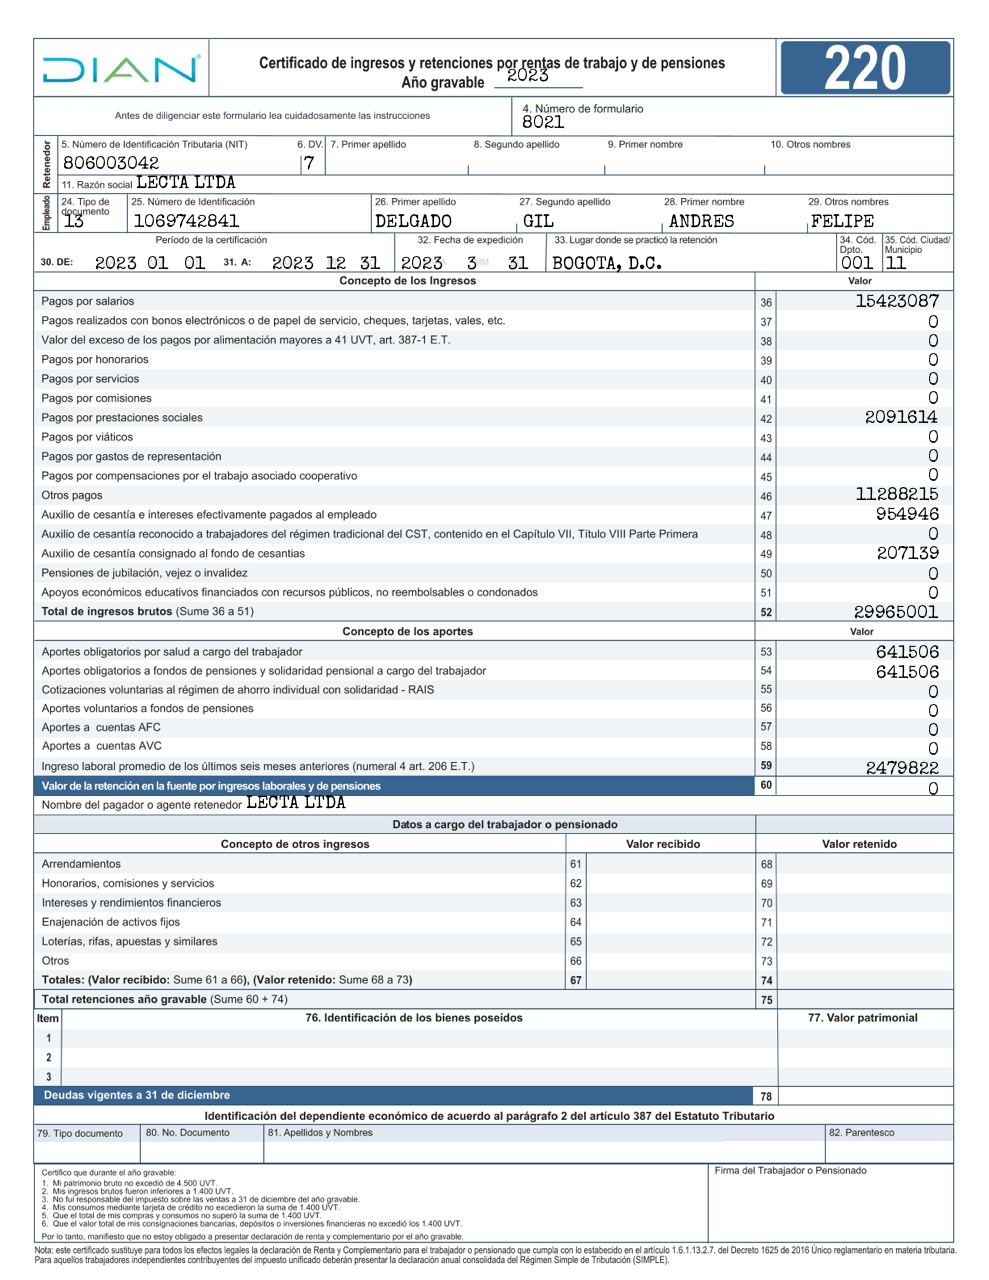
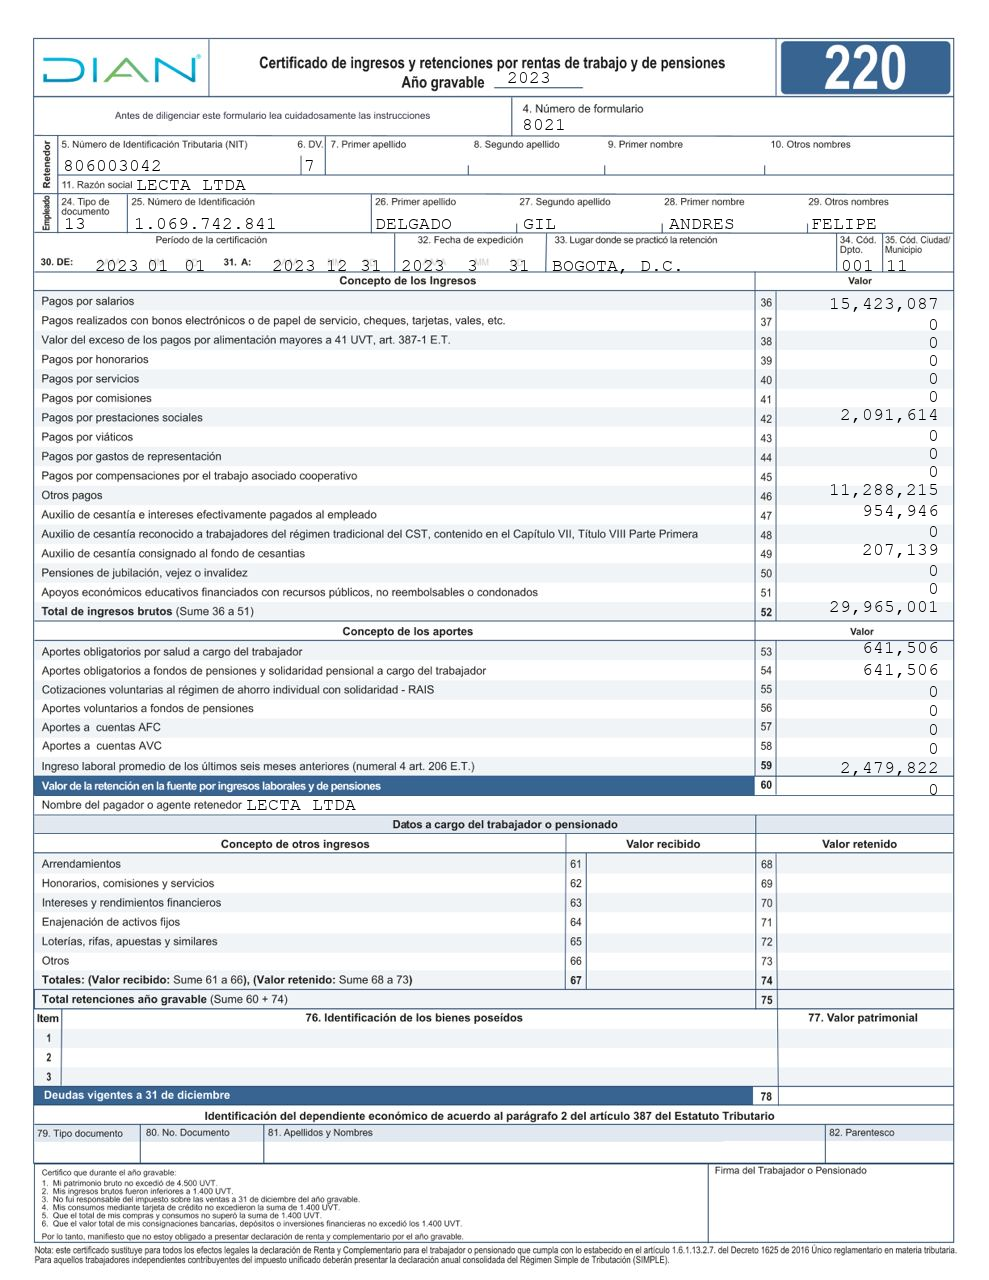
Humanización y cambio de fuente

diff --git a/templates/employees/viewdian.html b/templates/employees/viewdian.html
@@ -97,7 +97,7 @@ Certificaciones DIAN
                 }
             },
             dom: 'frtip',
-            order: [[2, 'des']], 
+            order: [[1, 'des']], 
             "pageLength": 6,                
         });
     });

diff --git a/apps/employees/views/viewdian/imggenerate.py b/apps/employees/views/viewdian/imggenerate.py
@@ -19,8 +19,8 @@ def imggenerate1(idingret):
         'nit': {'x': 63, 'y': 156, 'data': str(dataempresa['nit_empresa'])},
         'dv': {'x': 304, 'y': 156, 'data': str(dataempresa['dv'])},
         'razon': {'x': 136, 'y': 175, 'data': str(dataempresa['nombre_empresa'])},
-        'tipodni': {'x': 64, 'y': 214, 'data': str(certificado.tipodocumento)},
-        'dni': {'x': 134, 'y': 214, 'data': str(certificado.docidentidad)},
+        'tipodni': {'x': 64, 'y': 214, 'data':   str(certificado.tipodocumento)},
+        'dni': {'x': 134, 'y': 214, 'data': "{:,}".format(int(certificado.docidentidad)).replace(",", ".")},
         'papellido': {'x': 375, 'y': 214, 'data': str(certificado.papellido)},
         'sapellido': {'x': 523, 'y': 214, 'data': str(certificado.sapellido)},
         'pnombre': {'x': 669, 'y': 214, 'data': str(certificado.pnombre)},
@@ -71,10 +71,17 @@ def imggenerate1(idingret):
         '60': {'data': str(certificado.retefuente) if certificado.retefuente is not None else '0'},
     }
 
+    # value1
+    value1 = {k: {'data': '{:,.0f}'.format(float(v['data']))} if v['data'].replace('.', '', 1).isdigit() else v for k, v in value1.items()}
+
+    # value2
+    value2 = {k: {'data': '{:,.0f}'.format(float(v['data']))} if v['data'].replace('.', '', 1).isdigit() else v for k, v in value2.items()}
+
+
     image = Image.open(settings.STATICFILES_DIRS[0] + "/img/dian/220-2023.jpg")
     draw = ImageDraw.Draw(image)
     font_path = settings.STATICFILES_DIRS[0] + '/fonts/SpecialElite-Regular.ttf'
-    font = ImageFont.truetype(font_path, size=18)
+    font = ImageFont.truetype('cour.ttf', size=18)
     fill_color = "black"
 
     for campo, info in posision1.items():
@@ -85,7 +92,7 @@ def imggenerate1(idingret):
     max_width, max_height = image.size
     x = max_width - 50
     y = 294
-    line_spacing = 6
+    line_spacing = 7
 
     for campo, info in value1.items():
         dta = info['data']
@@ -97,6 +104,7 @@ def imggenerate1(idingret):
         y += text_height + line_spacing
 
     y += 20
+    line_spacing = 8
     for campo, info in value2.items():
         dta = info['data']
         bbox = draw.textbbox((0, 0), dta, font=font)

diff --git a/apps/employees/views/viewdian/viewdian.py b/apps/employees/views/viewdian/viewdian.py
@@ -13,8 +13,8 @@ import os
 
 
 
-@login_required
-@custom_permission('employees')
+# @login_required
+# @custom_permission('employees')
 def viewdian(request):
     ide = request.session.get('idempleado', {})
     
@@ -30,8 +30,8 @@ def viewdian(request):
     })
 
 
-@login_required
-@custom_permission('employees')
+# @login_required
+# @custom_permission('employees')
 def viewdian_empleado(request,idingret ):
     # Generar la imagen usando la función personalizada
     
